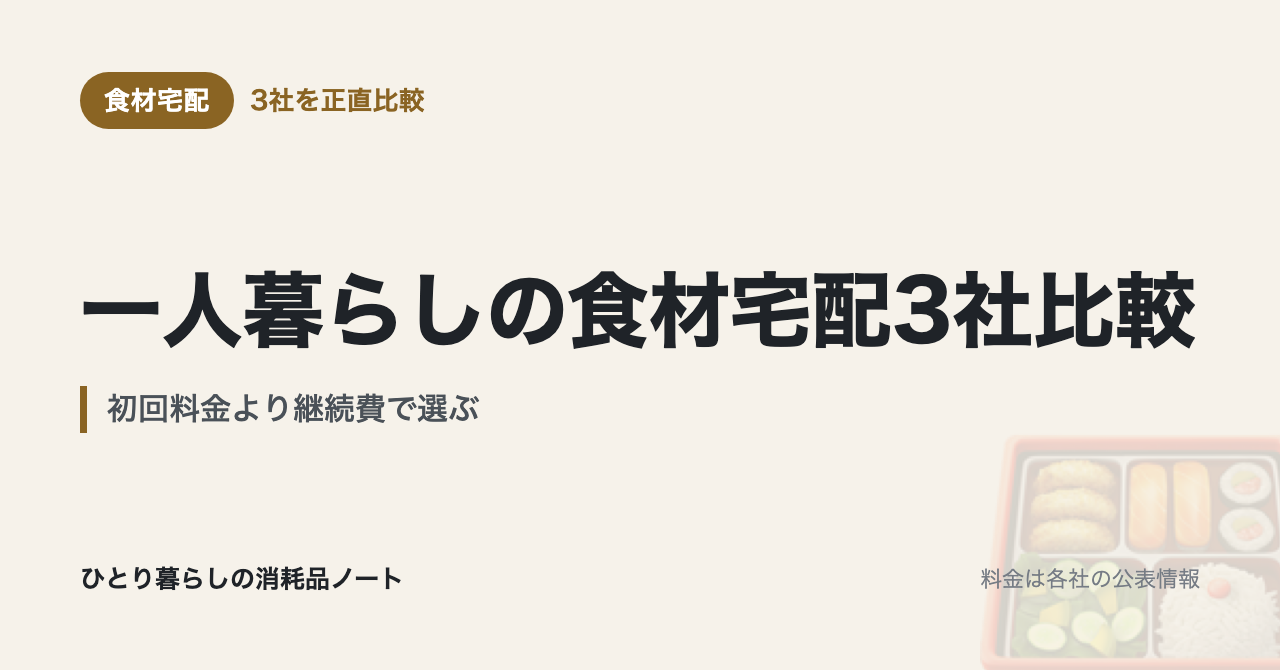
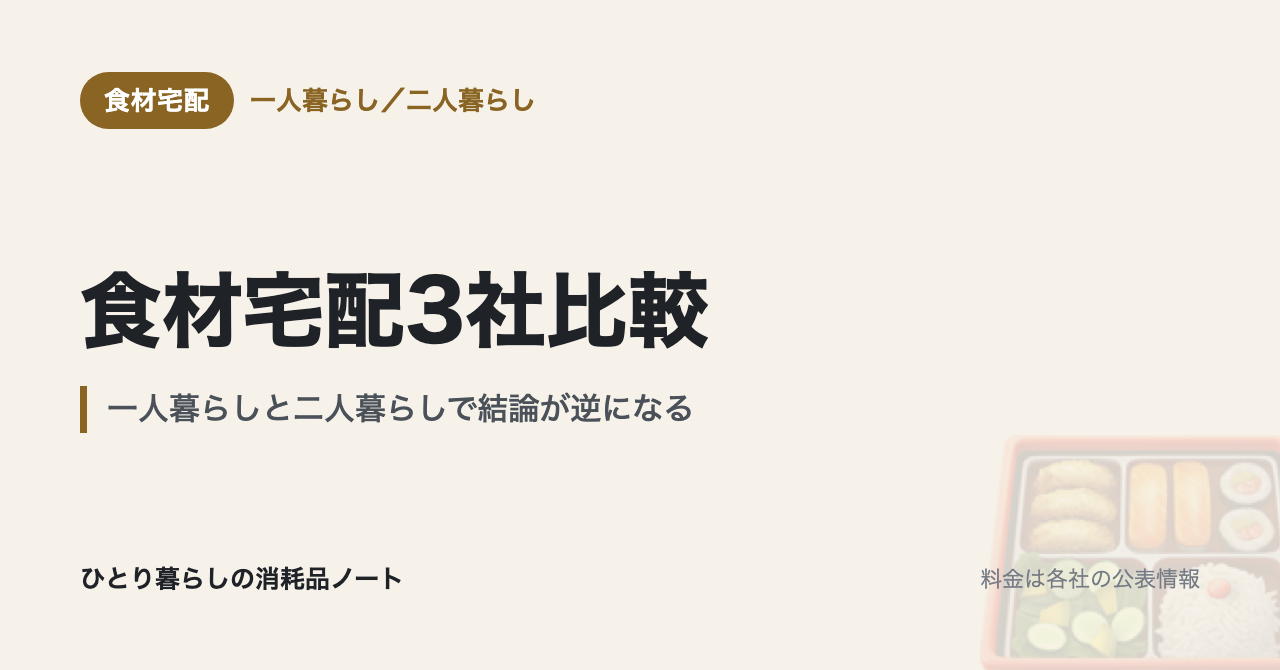
食材宅配の記事を二人暮らしに対応させる（表示が出ているクエリに合わせる）
GSCで56クエリのうち5つが食材宅配で、合計16表示。単一テーマとして最多だった。
しかも最多クエリが「食材 宅配 二人暮らし」（4表示）なのに、記事には
「二人暮らし」も「単身」も1回も書いていなかった。一人暮らし専用で書いていた
ので、クリックされても内容が合わない。

計算し直したら、記事の弱点がそのまま強みになった。3社とも2〜3人前が基準で、
一人暮らしでは「量が多すぎる」ことが欠点だった。二人暮らしではそれが消える。

  一人暮らし  ヨシケイ 週3,000円 が最安
  二人暮らし  シェフの無添つくりおき 1人あたり週2,914円 が最安

シェフの無添つくりおきは1回の配送量が固定（3人前×2食分）なので、食べる人が
増えても支払額が週5,828円のまま。二人で割ると半額になる。一方ヨシケイは
1食600円×人数で比例するので、2人なら週6,000円。ここで順位が入れ替わる。

一人暮らしのときに「3日で6食を食べ切る必要がある」と書いた消費期限の問題も、
二人なら1人3食ずつになって現実的になる。ただし3日で6食を消費する点は同じで、
外食が入る週は余る。そこは書き残した。

タイトルも変えた。「一人暮らしの食材宅配3社比較｜初回料金より継続費で選ぶ」
だと二人暮らしで検索した人には自分向けに見えない。
「食材宅配3社比較｜一人暮らしと二人暮らしで結論が逆になる」28字。

冒頭・FAQ・「役に立たない人」・サムネイル・ピンの文言も、世帯人数で結論が
変わることに合わせて直した。A8案件（1件1,000〜7,000円）が入っている記事なので、
表示が出ている語に合わせる価値が大きい。

Changed region(s): [[0.0625, 0.3881, 0.9375, 0.5373], [0.0625, 0.5672, 0.5625, 0.6269], [0.1875, 0.1194, 0.4062, 0.1791]]

diff --git a/pins/POST.md b/pins/POST.md
@@ -525,7 +525,7 @@
 
 ---
 
-## 一人暮らしの水代4通り比較｜浄水器・ペットボトル・サーバー
+## 一人暮らしの水代はいくら？4通りを実在商品で比較
 
 - ボード: **浄水器・水まわり**
 - リンク先: https://hitorikurashi-note.vercel.app/articles/water-cost
@@ -685,7 +685,7 @@
 
 ---
 
-## 一人暮らしの食材宅配3社比較｜初回料金より継続費で選ぶ
+## 食材宅配3社比較｜一人暮らしと二人暮らしで結論が逆になる
 
 - ボード: **一人暮らしの固定費**
 - リンク先: https://hitorikurashi-note.vercel.app/articles/meal-delivery
@@ -694,33 +694,33 @@
 
 **タイトル**
 ```
-一人暮らしの食材宅配 初回と通常利用
+食材宅配3社 4件の1人あたり週の支払いコスト一覧
 ```
 **説明文**
 ```
-一人暮らしの食材宅配を初回と通常利用で整理しました。ヨシケイ 1,500→3,000円／Oisix 1,980→5,400円〜／シェフの無添つくりおき 3,280→5,828円。実際の価格とレビューをもとに比較しています。#食材宅配 #ミールキット #一人暮らし #自炊 #時短ごはん
+食材宅配3社を1人あたり週の支払いコストの安い順に並べました。ヨシケイ（一人暮らし） 3,000円／シェフの無添つくりおき（二人暮らし） 2,914円／Oisix（二人暮らし） 2,700円〜／シェフの無添つくりおき（一人暮らし） 5,828円。実際の価格とレビューをもとに比較しています。#食材宅配 #ミールキット #一人暮らし #自炊 #時短ごはん
 ```
 
 ### [ ] 価格訴求（画像: `pins/meal-delivery-price.png`）
 
 **タイトル**
 ```
-食材宅配 初回の安さは続く値段じゃない
+食材宅配 一人と二人で逆転する
 ```
 **説明文**
 ```
-食材宅配初回の安さは続く値段じゃない｜初回と通常利用では支払額の水準が違う。初回セットと通常は中身も違う。送料は2回目からかかる社もある。通常価格を続けられるかで決める。 実際の価格とレビューをもとに6商品を比較しました。#食材宅配 #ミールキット #一人暮らし #自炊 #時短ごはん
+食材宅配一人と二人で逆転する｜3社とも2〜3人前が基準だった。一人ならヨシケイ 週3,000円。二人ならシェフの無添 1人2,914円。配送量が固定だと人数で割れる。 実際の価格とレビューをもとに6商品を比較しました。#食材宅配 #ミールキット #一人暮らし #自炊 #時短ごはん
 ```
 
 ### [ ] 比較訴求（画像: `pins/meal-delivery-compare.png`）
 
 **タイトル**
 ```
-食材宅配 3社を正直比較
+食材宅配3社 初回では選べない
 ```
 **説明文**
 ```
-食材宅配3社を正直比較｜シェフの無添つくりおき・ヨシケイ・Oisix。自炊をどこまでやめたいかで決まる。一人暮らしは量と消費期限が効く。3社とも初回だけで解約できます。 実際の価格とレビューをもとに6商品を比較しました。#食材宅配 #ミールキット #一人暮らし #自炊 #時短ごはん
+食材宅配3社初回では選べない｜初回の安さは継続費を示さない。初回1,500円が通常3,000円に。効くのは届く量と消費期限。世帯人数で結論が変わります。 実際の価格とレビューをもとに6商品を比較しました。#食材宅配 #ミールキット #一人暮らし #自炊 #時短ごはん
 ```
 
 ---
